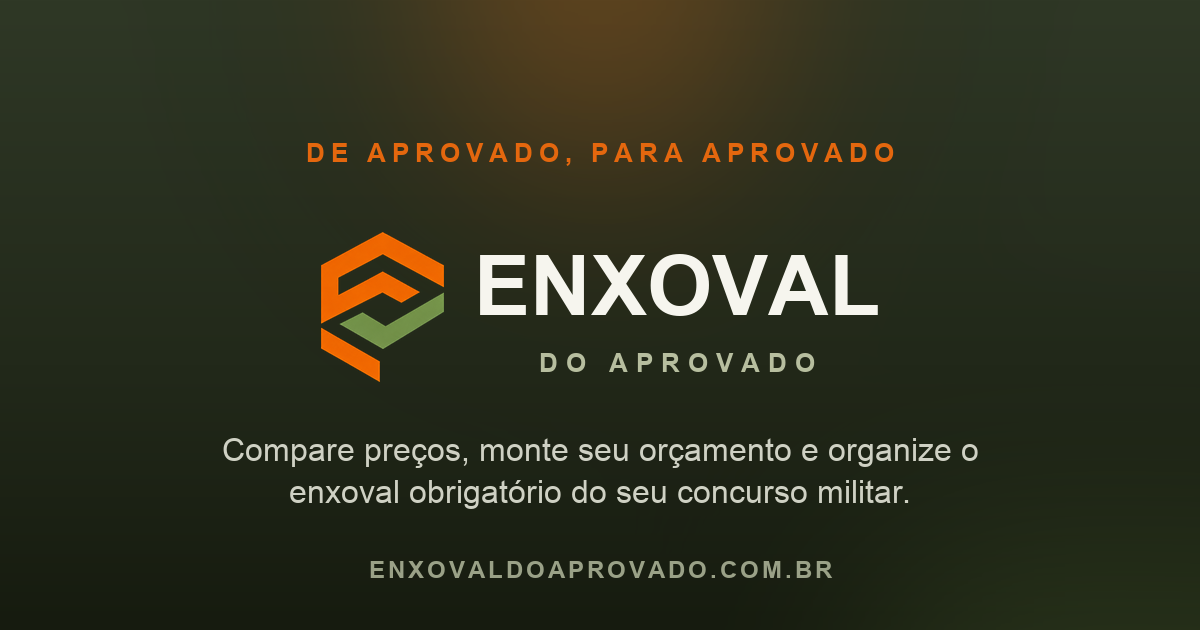
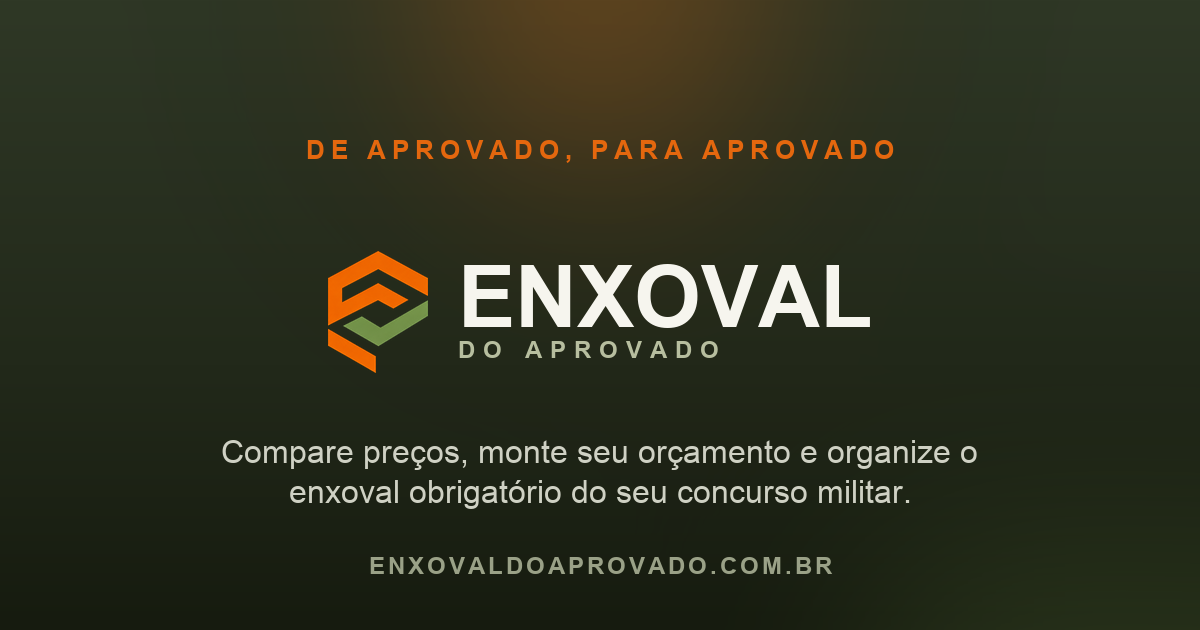
Cartão de compartilhamento: realinha o lockup (emblema + marca)
Emblema com proporção do cabeçalho (~1.3x o bloco de texto) e centro
alinhado ao centro de "ENXOVAL / DO APROVADO", grupo centralizado.
Antes o emblema ficava grande demais e desalinhado com o texto.
og:image ?v=4 para atualizar o cache do WhatsApp.

diff --git a/index.html b/index.html
@@ -13,13 +13,13 @@
 <meta property="og:title" content="Enxoval do Aprovado">
 <meta property="og:description" content="Compare preços, monte seu orçamento e organize o enxoval obrigatório do seu concurso militar. De aprovado, para aprovado.">
 <meta property="og:url" content="https://enxovaldoaprovado.com.br/">
-<meta property="og:image" content="https://enxovaldoaprovado.com.br/og.png?v=3">
+<meta property="og:image" content="https://enxovaldoaprovado.com.br/og.png?v=4">
 <meta property="og:image:width" content="1200">
 <meta property="og:image:height" content="630">
 <meta name="twitter:card" content="summary_large_image">
 <meta name="twitter:title" content="Enxoval do Aprovado">
 <meta name="twitter:description" content="Compare preços, monte seu orçamento e organize o enxoval obrigatório do seu concurso militar. De aprovado, para aprovado.">
-<meta name="twitter:image" content="https://enxovaldoaprovado.com.br/og.png?v=3">
+<meta name="twitter:image" content="https://enxovaldoaprovado.com.br/og.png?v=4">
 <meta name="theme-color" content="#22291A">
 <meta name="apple-mobile-web-app-capable" content="yes">
 <meta name="mobile-web-app-capable" content="yes">
